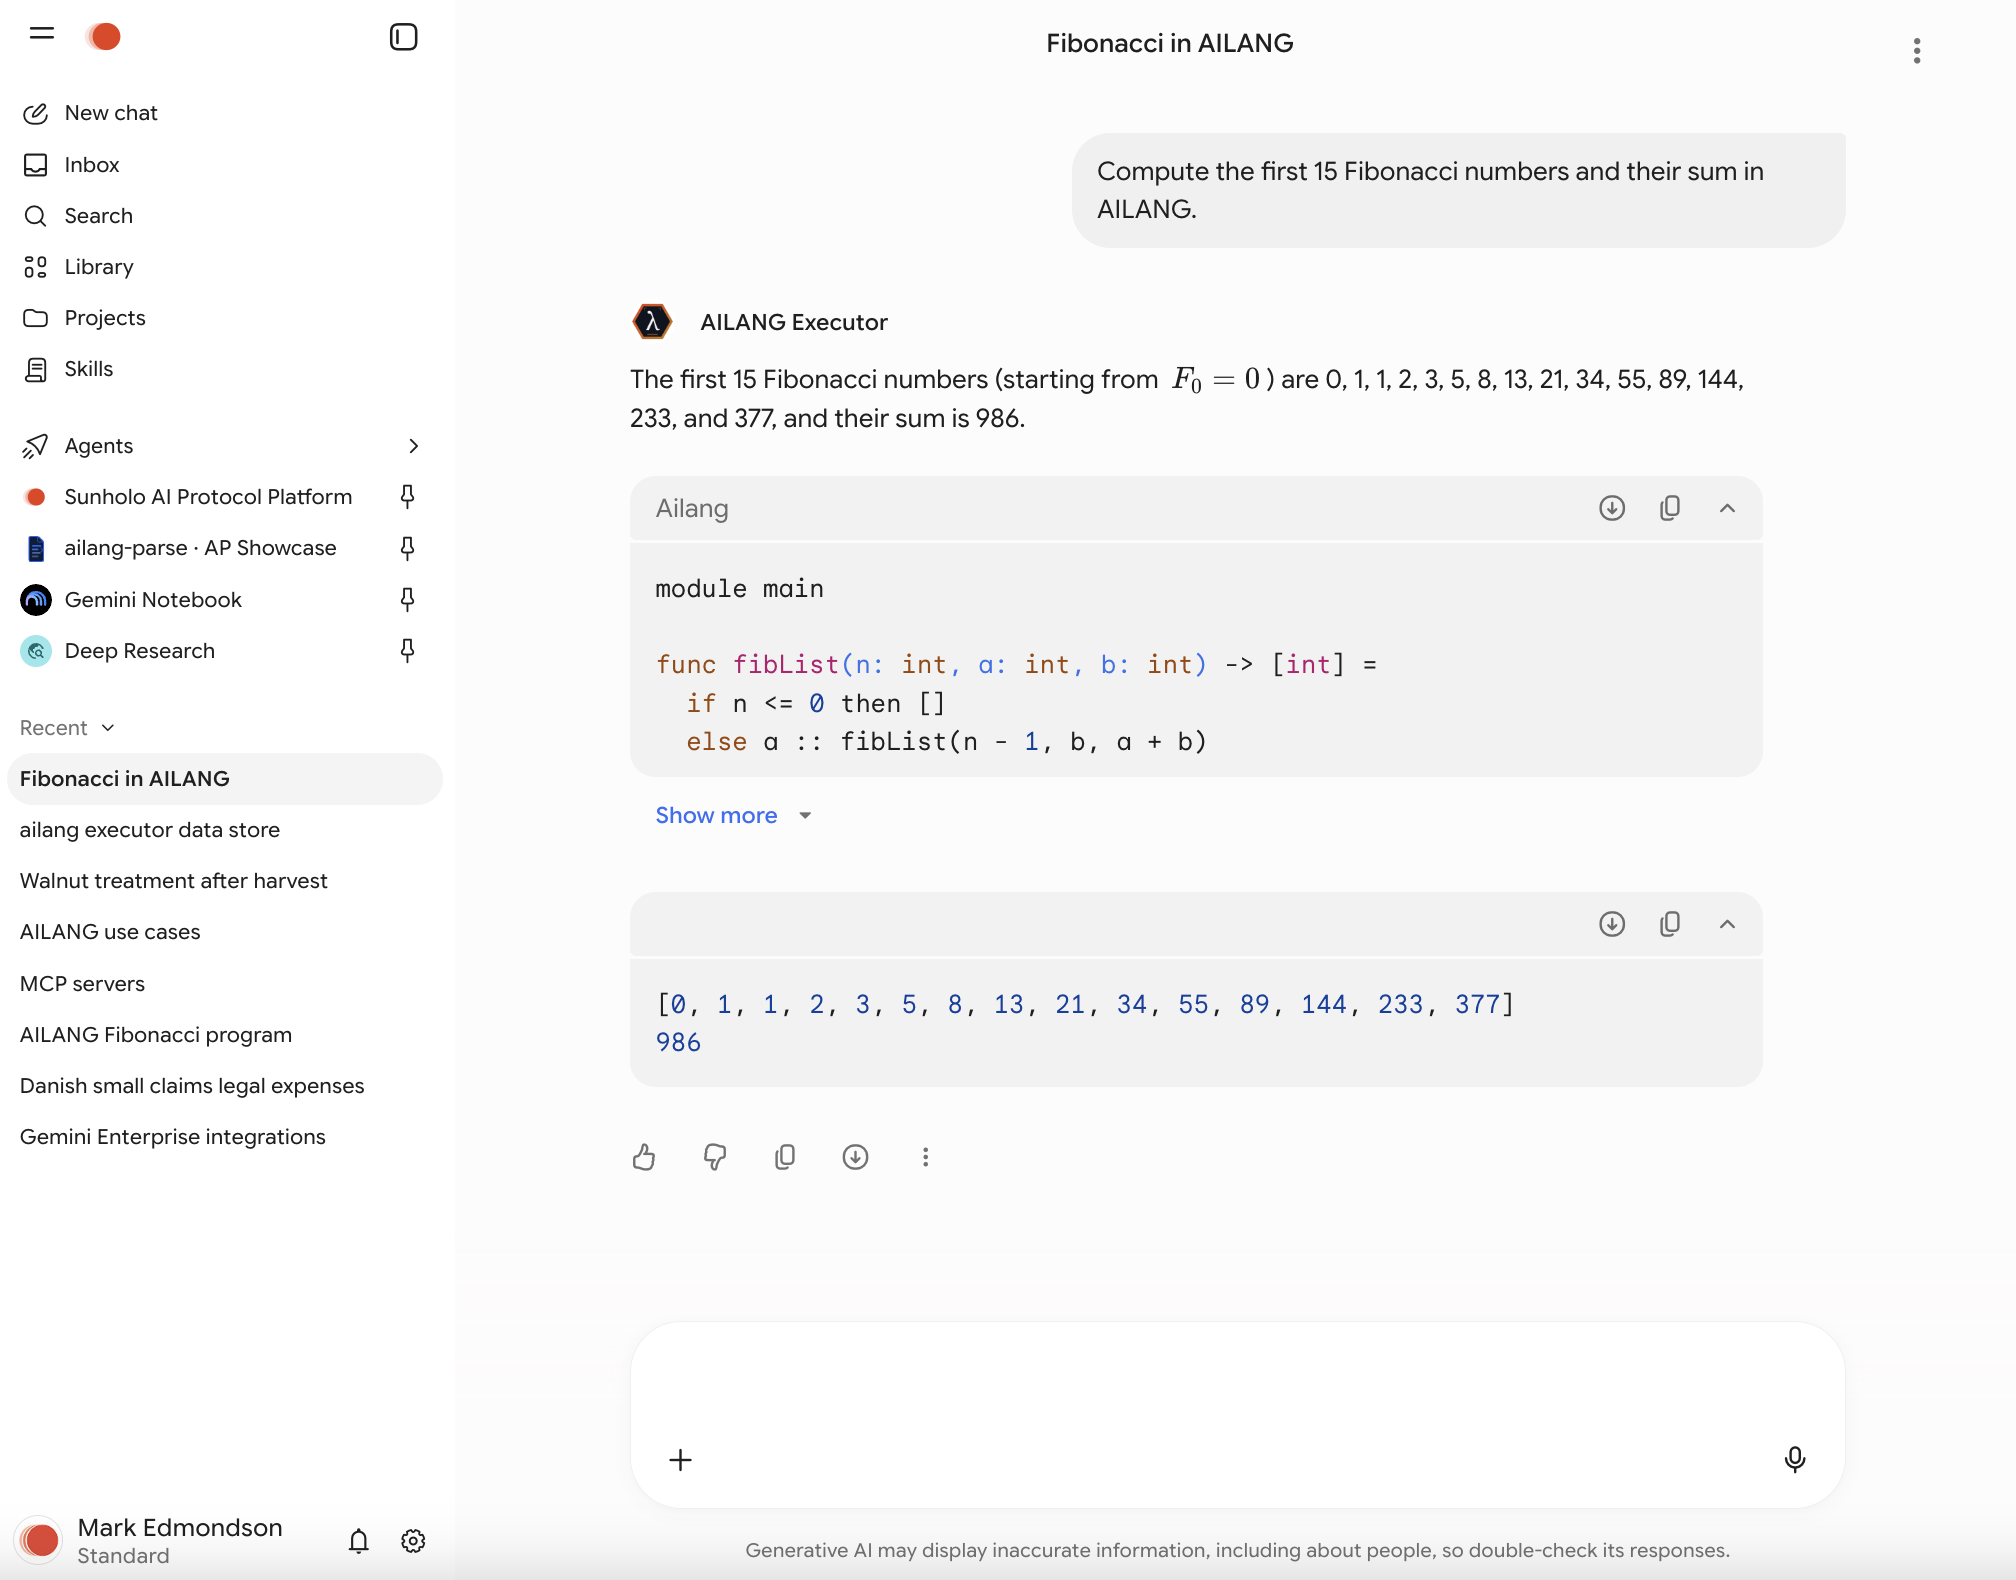
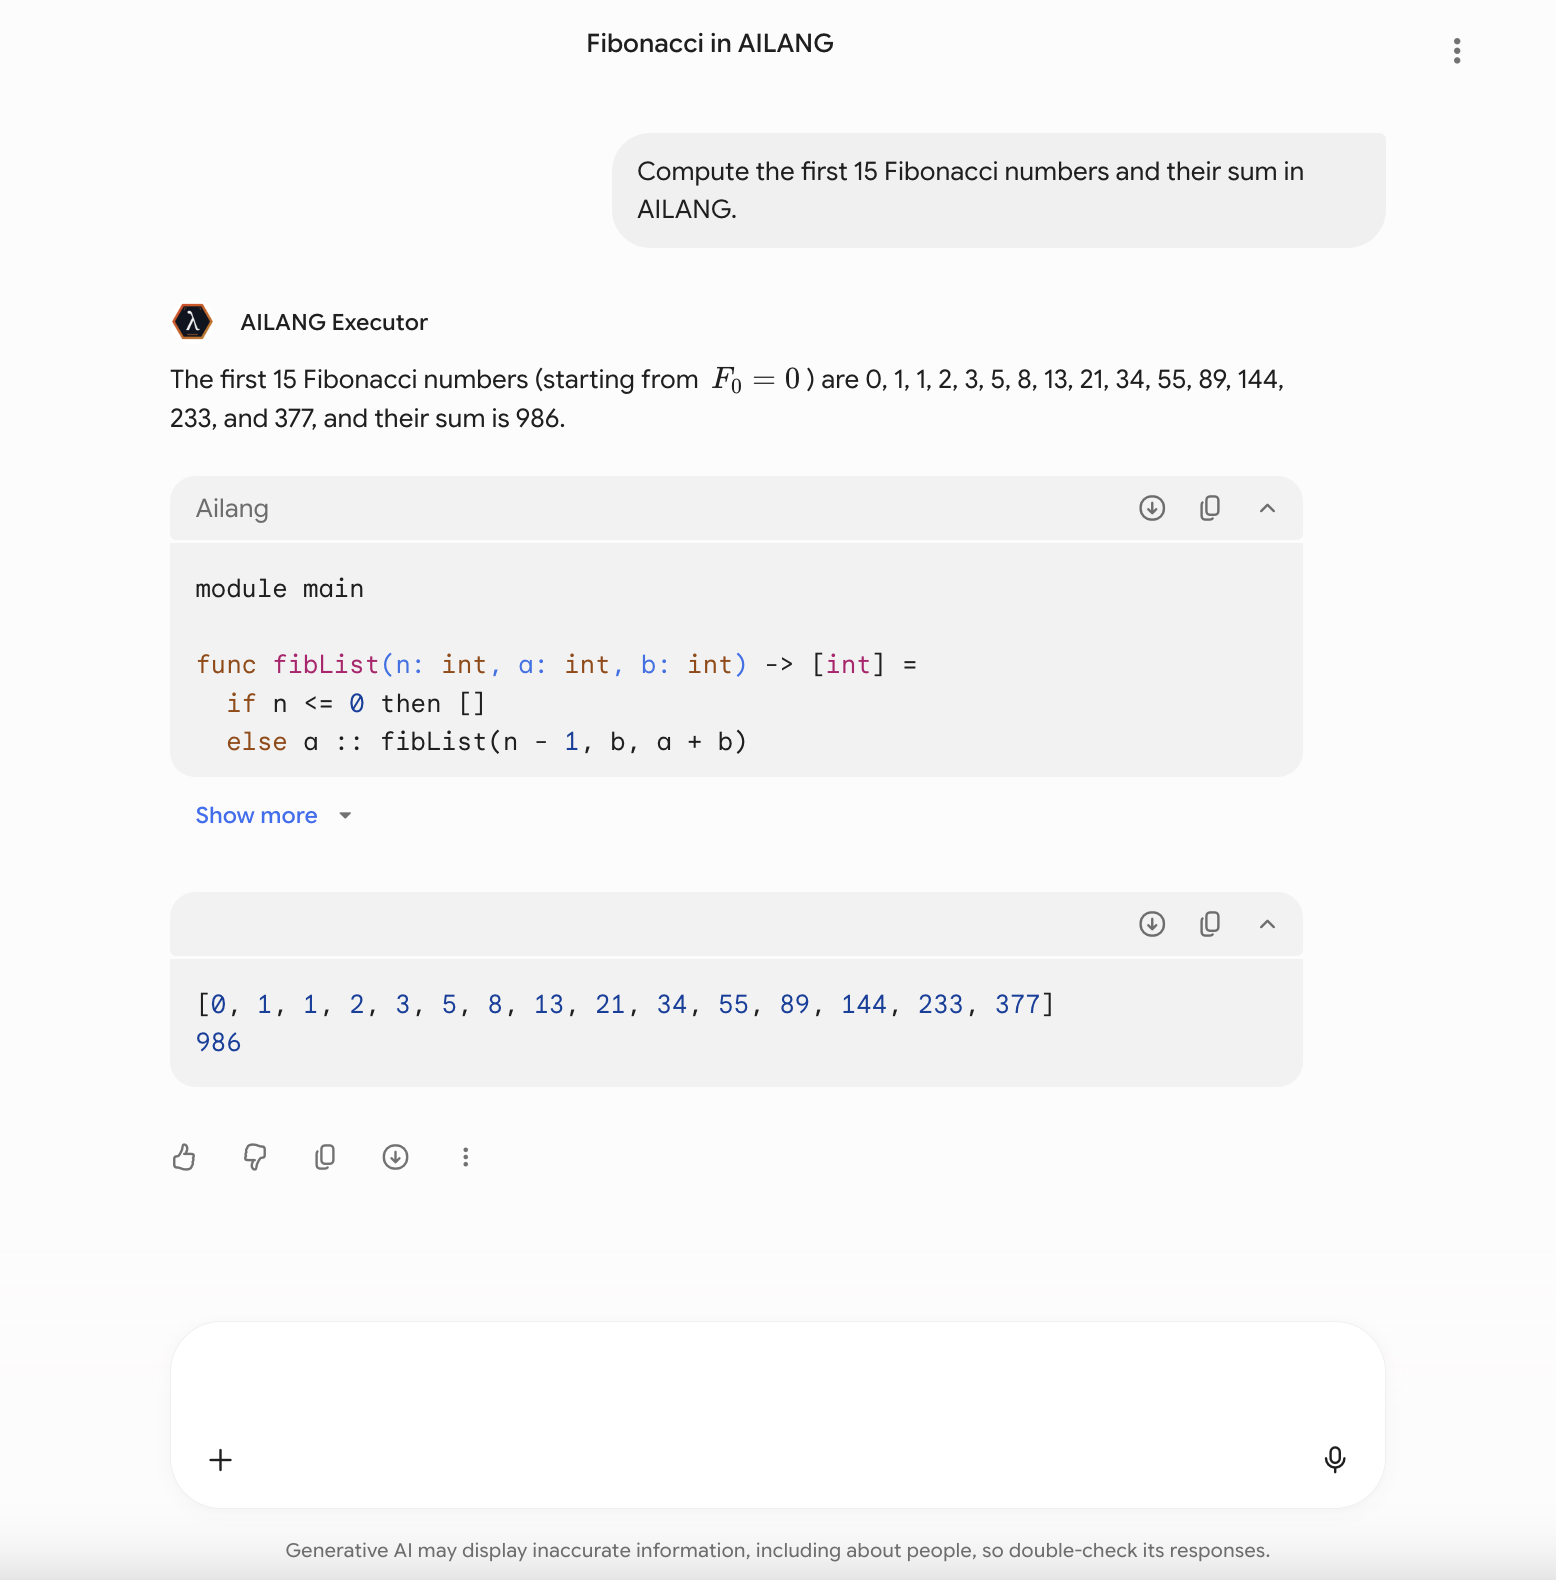
docs(connectors): Gemini Enterprise screenshots in the guide; redact the signed-in email and the chat sidebar
Consent pages now read 'Signed in as you@example.com'; the Fibonacci run is
cropped to the conversation (the sidebar showed the account name and recent
chat titles). Guide: data-store and A2A screenshots with a dev-URL note, A2A
and MCP sign-in marked as observed on dev, quota note corrected (a refused
429 costs nothing), the console form has PKCE and Basic, and the card's
securitySchemes pre-fill the registration form.

diff --git a/docs/docs/guides/mcp-connectors.md b/docs/docs/guides/mcp-connectors.md
@@ -570,11 +570,11 @@ Google has three ways in. Two of them are remote MCP, so they reuse the `/mcp/co
 and differ only in the OAuth client model they need. The third is A2A: Gemini Enterprise delegates a
 whole request to your agent, which `serve-api --a2a-message` serves (below).
 
-| Google surface | What it needs | AILANG today (2026-11-10) |
+| Google surface | What it needs | AILANG today (2026-11-12) |
 |---|---|---|
-| **Gemini Enterprise: custom MCP server data store.** An admin adds your remote MCP URL, and your tools become GE "actions" | Streamable HTTP. For per-user sign-in, an OAuth client that the admin pre-registers at your server: a client ID and secret, plus redirect `https://vertexaisearch.cloud.google.com/oauth-redirect` | **Without sign-in: works, observed.** With "No authentication" selected and Cloud Run IAM on a default `*.run.app` URL, GE sends a Google-signed ID token for its service agent. The AILANG executor runs this way in dev. **With sign-in: built, not yet tried against GE.** `sunholo/mcp_oauth` 0.2.0 accepts pre-registered confidential clients (`confidential: true`), so you can mint a client for the GE admin. Neither demo service has switched it on yet |
+| **Gemini Enterprise: custom MCP server data store.** An admin adds your remote MCP URL, and your tools become GE "actions" | Streamable HTTP. For per-user sign-in, an OAuth client that the admin pre-registers at your server: a client ID and secret, plus redirect `https://vertexaisearch.cloud.google.com/oauth-redirect` | **Without sign-in: works, observed.** With "No authentication" selected and Cloud Run IAM on a default `*.run.app` URL, GE sends a Google-signed ID token for its service agent. The AILANG executor runs this way in dev. **With sign-in: works, observed** (dev executor, 2026-11-11) with a pre-registered confidential client (`confidential: true`) and `sunholo/mcp_oauth` 0.2.1 or later. Steps: [Gemini Enterprise with per-user sign-in](#gemini-enterprise-with-per-user-sign-in-the-steps-and-what-bit-us) |
 | **Google Connected Apps** (the Gemini app and Search AI Mode, preview since 2026-10-28) | Remote MCP. CIMD, then DCR (Google's OAuth guide also asks for a `registration_endpoint`). A **non-rotating** refresh token. A revocation endpoint that Google calls when a user unlinks | **Built in `sunholo/mcp_oauth` 0.2.0, off by default:** `dcr: true` serves `POST /oauth/register` and advertises `registration_endpoint`, `revocation: true` serves RFC 7009 `/oauth/revoke`, and a client can be given a `stable` refresh policy. Listing needs Google's preview admission. Onboarding steps are in [m-google-connected-apps-distribution](https://github.com/sunholo-data/ailang/blob/dev/design_docs/planned/m-google-connected-apps-distribution.md) |
-| **Gemini Enterprise: A2A agent** | An A2A **v0.3** agent card (with `protocolVersion`) and the `message/send` / `message/stream` methods; per-user sign-in through an *authorization* resource | **Supported from the next release** (on `dev` now): `serve-api --a2a --a2a-message <export>` answers `message/send`, `message/stream` and `tasks/get`, and under `--mcp-connect-only` `/a2a/` is behind the same sign-in as `/mcp/connect/`. Registration: [Gemini Enterprise A2A agent](#gemini-enterprise-a2a-agent) |
+| **Gemini Enterprise: A2A agent** | An A2A **v0.3** agent card (with `protocolVersion`) and the `message/send` / `message/stream` methods; per-user sign-in through an *authorization* resource | **Works, observed on dev (2026-11-12); in the next release.** `serve-api --a2a --a2a-message <export>` answers `message/send`, `message/stream` and `tasks/get`, and under `--mcp-connect-only` `/a2a/` is behind the same sign-in as `/mcp/connect/`. Registration: [Gemini Enterprise A2A agent](#gemini-enterprise-a2a-agent) |
 
 **Turning on the 0.2.0 client models.** Each one is a field on a `ClientConfig`, passed to the 0.2
 entry points (`asMetadataFor`, `beginAuthorizeFor`, `tokenRequest`, `revokeRequest`,
@@ -610,6 +610,9 @@ Tested 2026-11-11 against the hosted executor's dev service, with a pre-register
 authenticates to the token endpoint with HTTP Basic. Every step below is one that failed for us
 first.
 
+The screenshots show our **dev** service (`ailang-dev-executor-mcp-oauth-…run.app`). Use your own
+service's URLs; for the hosted executor that is `https://executor.ailang.sunholo.com`.
+
 1. **Mint a client** with your operator command (the executor's is `createClientCli`), redirect
    `https://vertexaisearch.cloud.google.com/oauth-redirect`. The secret prints once.
 2. **Allow egress.** The org policy `discoveryengine.managed.allowedEgressFqdns` must list the
@@ -618,15 +621,29 @@ first.
 3. **Create the data store inside the app**: Gemini Enterprise → Apps → *your app* → **Connected
    Data Stores** → New data store → Custom MCP Server. A data store created on its own cannot be
    linked to an app later.
+
+   ![Gemini Enterprise: the app's Connected data stores page, with New data store](/img/connectors/gemini-enterprise-datastore-01-connected-data-stores.png)
+
+   ![The Custom MCP Server card, under MCP servers](/img/connectors/gemini-enterprise-datastore-02-add-custom-mcp-server.png)
 4. **The form:** MCP Server URL is the full `/mcp/connect/` path, not the base. Authorization and
    token URLs are yours. **Tick Enable PKCE Support** (it is off by default, and an OAuth 2.1 server
    refuses an authorize without it). Leave HTTP Basic ticked. Click **Verify Auth**, then wait for the
    state to become **Active**.
+
+   ![The MCP server configuration filled in for the executor: OAuth 2.0, the three URLs, client ID, PKCE and HTTP Basic ticked](/img/connectors/gemini-enterprise-datastore-04-oauth-config-filled.png)
+
+   ![The executor's consent page: vertexaisearch.cloud.google.com asks to run AILANG code for you](/img/connectors/gemini-enterprise-datastore-07-oauth-allow.png)
+
+   ![The connector's details: state Active, actions still disabled](/img/connectors/gemini-enterprise-datastore-06-connector-details.png)
 5. **Enable the actions** (Actions → Reload custom actions → select all → Enable actions). They
    start disabled. Tools with `readOnlyHint` skip GE's per-call confirmation.
+
+   ![Actions tab: all 29 executor tools selected, Enable actions](/img/connectors/gemini-enterprise-datastore-08-enable-actions.png)
 6. **Use it from an agent.** The default assistant's tool menu does **not** list custom MCP data
    stores; Agent Designer agents do. In the web app: Agents → Create agent → Chat agent → **Tools &
    Integrations** → **Connect** your server (each user signs in once) → toggle it on.
+
+   ![The web app's New agent menu: Chat agent](/img/connectors/gemini-enterprise-datastore-10-new-chat-agent.png)
 7. **Accept a long `state`.** The web app's per-user Connect sends a 768-character base64 `state`
    with `=` padding. `sunholo/mcp_oauth` before 0.2.1 refused anything but unreserved characters
    up to 512 (`invalid_request: state must be unreserved characters, at most 512`); 0.2.1 accepts
@@ -634,8 +651,8 @@ first.
    the problem.
 8. **Mind the agent-creation quota.** It is per day and pooled across licences: Standard allows 1
    creation per licensed user per day, Plus 10, Frontline 0 ([Workflow Builder quotas](https://docs.cloud.google.com/gemini/enterprise/docs/workflow-builder/quotas-and-limits)).
-   Every create counts, including a double-clicked save and a failed attempt; deleting an agent does
-   not give a creation back. Beyond it, `CreateAgent` returns 429 `RESOURCE_EXHAUSTED: Agent
+   Every successful create counts, including a double-clicked save; deleting an agent does not give
+   a creation back. A create refused with 429 costs nothing. Beyond it, `CreateAgent` returns 429 `RESOURCE_EXHAUSTED: Agent
    creation quota exceeded`, and it is not a Cloud Quotas entry you can raise. Create one agent and
    edit it, or have an admin enable pay-as-you-go usage above quota. Registering an A2A agent is the
    same `CreateAgent` call, so it shares this quota.
@@ -655,10 +672,13 @@ What Google requires, from [Register and manage A2A agents](https://docs.cloud.g
   `url` is the endpoint Gemini Enterprise calls. Serve it anyway (`/.well-known/agent-card.json`) so
   you can check it before you spend a registration.
 - **Sign-in is a separate *authorization* resource**: client ID and secret, authorization URI, token
-  URI. Gemini Enterprise ignores the card's `securitySchemes`. Set `pkceVerificationEnabled: true`
-  (`sunholo/mcp_oauth` refuses an authorize without PKCE) and `basicAuthenticationEnabled: true`
-  (pre-registered clients use `client_secret_basic`). The console form may not show these two, so
-  create the authorization over REST.
+  URI. Gemini Enterprise does not sign in from the card's `securitySchemes`, but the console's
+  registration form pre-fills its authorization and token URL fields from them; under
+  `--mcp-connect-only` serve-api puts your `--oauth-issuer`'s endpoints there. The client ID is never
+  on the card, and the authorization URL must carry it (`…/oauth/authorize?client_id=<id>&response_type=code`).
+  Tick **PKCE** (`pkceVerificationEnabled`: `sunholo/mcp_oauth` refuses an authorize without it) and
+  **HTTP Basic** (`basicAuthenticationEnabled`: pre-registered clients use `client_secret_basic`);
+  the console form has both checkboxes, and the REST script below sets them.
 - **Redirects.** Gemini Enterprise overwrites `redirect_uri` and returns to
   `https://vertexaisearch.cloud.google.com/static/oauth/oauth.html`; mint the client with that and
   `https://vertexaisearch.cloud.google.com/oauth-redirect`.
@@ -670,6 +690,27 @@ What Google requires, from [Register and manage A2A agents](https://docs.cloud.g
 
 The AILANG deployment scripts the REST calls: `ailang-multivac/scripts/ge-a2a-agent.sh` (`check`, `auth`,
 `agent`, `list`, `delete`).
+
+**What it looks like** (dev executor, 2026-11-12). After registration the agent is listed as an
+enabled A2A (Custom) agent, and its landing page shows the card's name, icon and description:
+
+![Agents table: AILANG Executor, A2A (Custom), Enabled](/img/connectors/gemini-enterprise-agent-01-agents-table.png)
+
+![The agent's landing page: the AILANG icon, name and the handler's description](/img/connectors/gemini-enterprise-agent-02-agent-landing.png)
+
+The first message asks the user to authorize; **Authorize** opens your consent page, and the request
+is sent once they allow it:
+
+![In chat: "The agent requires additional authorization", with an Authorize button](/img/connectors/gemini-enterprise-agent-03-authorize-prompt.png)
+
+![The executor's consent page for vertexaisearch.cloud.google.com](/img/connectors/gemini-enterprise-agent-04-oauth-allow.png)
+
+![The answer: the first 15 Fibonacci numbers summing to 986, the AILANG program and its real output](/img/connectors/gemini-enterprise-agent-05-fibonacci-run.png)
+
+Measured on that run: sign-in to the first `/a2a/` call took 23 seconds (most of it the user), and
+the call answered in 27 seconds in one request (model, `ailang_check`, `ailang_run`, answer). Each
+`/a2a/` request logs one `a2a_request` line with its method and outcome
+([serve-api](./serve-api.md#an-ailang-program-as-an-a2a-agent---a2a-message)).
 
 ## 7. Microsoft Copilot
 
